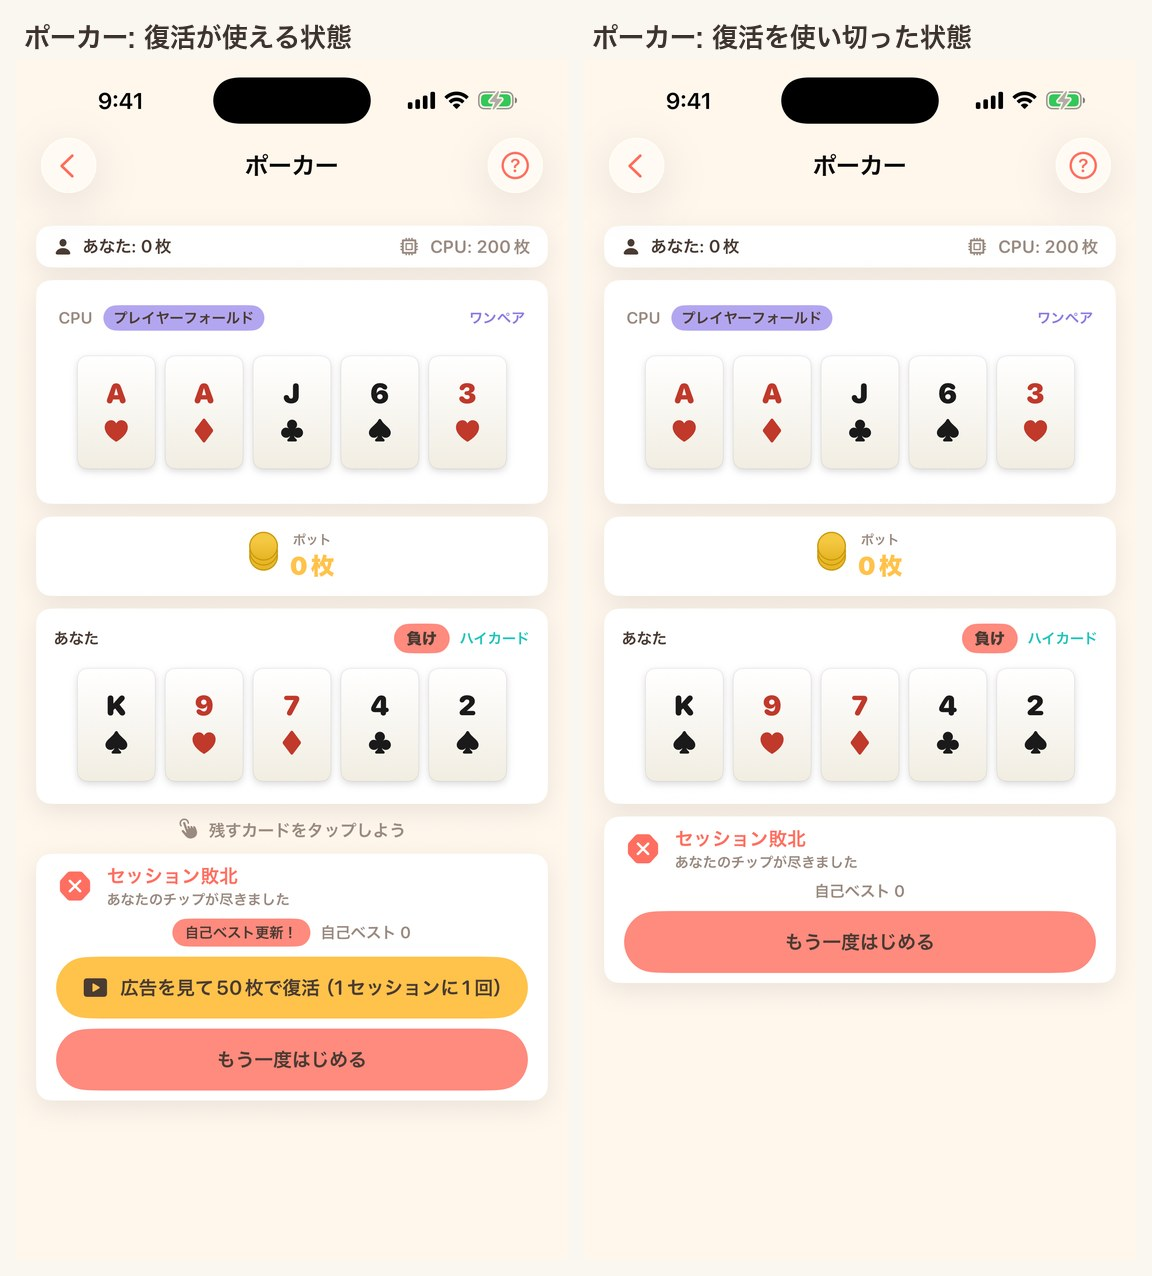
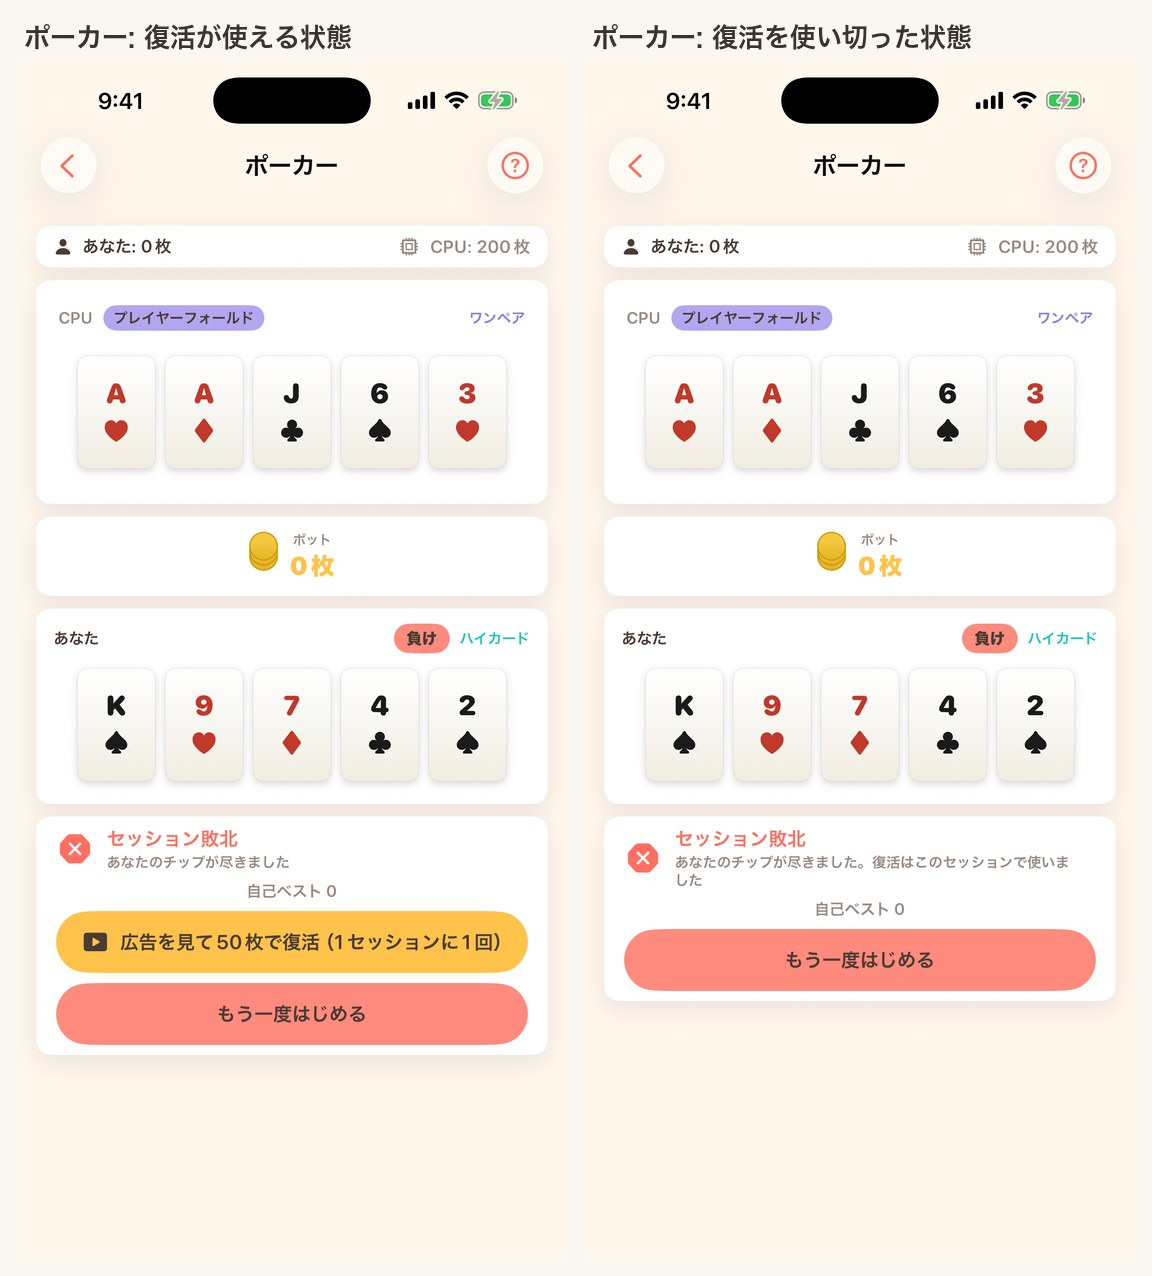
fix(poker): 復活を使い切ったことを説明文にも書く（#499・CodeRabbit 指摘）
ブラックジャックは `sessionOverSubtitle` で文言を切り替えていたが、ポーカーは
`sessionWinner` だけで決まっていたため、使い切ってもボタンが消えるだけで
理由が画面から読み取れなかった。自分が負けた回だけ書き添える
（CPU が尽きた回・相打ちの回は従来どおり）。差し替えたスクショで表示を実測。

Changed region(s): [[0.0312, 0.6418, 0.4688, 0.8558], [0.5312, 0.6418, 0.9688, 0.7947]]

diff --git a/Packages/GameKit/Sources/GamePoker/PokerView.swift b/Packages/GameKit/Sources/GamePoker/PokerView.swift
@@ -551,6 +551,20 @@ public struct PokerView: View {
         "広告を見て\(PokerModel.reviveChips)枚で復活（1セッションに1回）"
     }
 
+    /// セッション終了の見出し下の説明。**自分が負けた回だけ**、復活を使い切ったことを書き添える
+    /// （#499・ブラックジャックの `sessionOverSubtitle` と揃える）。書かないとボタンが消えるだけになり、
+    /// なぜ選べないのかが画面から読み取れない。
+    private var sessionOverSubtitle: String {
+        switch model.sessionWinner {
+        case .player: return "CPUのチップが尽きました"
+        case .tie:    return "お互いのチップが尽きました"
+        default:
+            return model.canReviveAfterBust
+                ? "あなたのチップが尽きました"
+                : "あなたのチップが尽きました。復活はこのセッションで使いました"
+        }
+    }
+
     // セッション終了（チップ0）
     private var sessionOverView: some View {
         VStack(spacing: 8) {
@@ -560,7 +574,7 @@ public struct PokerView: View {
                 let iconColor = winner == .player ? Theme.yellow : winner == .tie ? Theme.teal : Theme.coral
                 let title = winner == .player ? "セッション勝利！" : winner == .tie ? "引き分け" : "セッション敗北"
                 let titleColor = winner == .player ? Theme.teal : winner == .tie ? Theme.teal : Theme.coral
-                let subtitle = winner == .player ? "CPUのチップが尽きました" : winner == .tie ? "お互いのチップが尽きました" : "あなたのチップが尽きました"
+                let subtitle = sessionOverSubtitle
                 Image(systemName: icon)
                     .font(.system(size: 24))
                     .foregroundStyle(iconColor)
